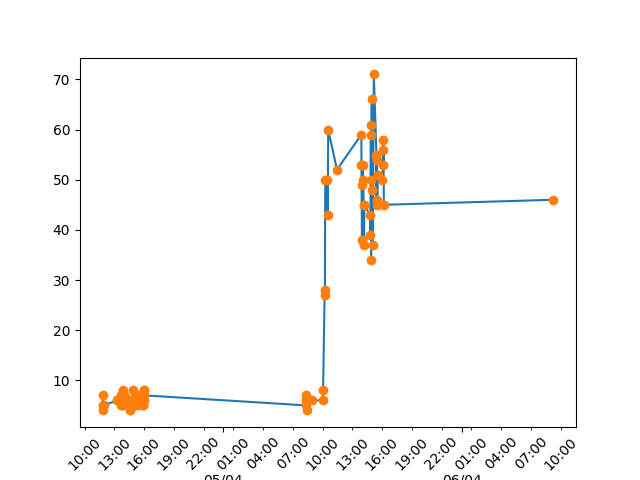
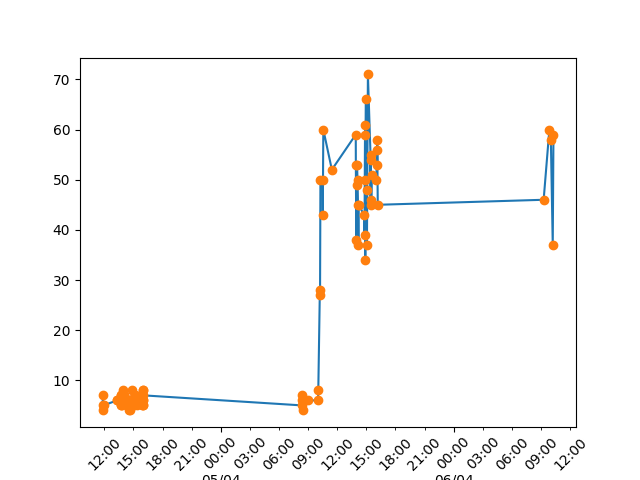
changed list api to scan 9 sensors per shelf

Changed region(s): [[0.2812, 0.125, 0.875, 0.875], [0.0938, 0.9062, 0.9062, 1.0]]

diff --git a/Python/WebPage/API.py b/Python/WebPage/API.py
@@ -44,8 +44,9 @@ def startfunction():
                 measureUS.MeasureDistancePR(singleshelf, XYGridList)
                 a = []
                 for b in XYGridList:
-                    b.PRCovered = stockpercentages.CalculateConfidence(singleshelf.height, b.USdistance, b.PRCovered)
-                    a.append(b.PRCovered)
+                    if b.shelflocation == singleshelf.location:
+                        c = stockpercentages.CalculateConfidence(singleshelf.height, b.USdistance, b.PRCovered)
+                        a.append(c)
                 print("value of a is", a)
                 if -1 in a:
                     singleshelf.confidenceLevel = -1

diff --git a/Python/Objects/product.py b/Python/Objects/product.py
@@ -13,7 +13,7 @@ class Product (object):
 def makeProductGrid():     
     MadeList = []
     MadeList.append(Product("Quaker Oats", "5000108810988", 21.0, 13.0, 8.0, 0.293))
-    MadeList.append(Product("Pancake Mix", "0000003265314", 21.0, 13.0, 8.0, 0.293))
+    MadeList.append(Product("Pancake Mix", "5449000958938", 21.0, 13.0, 8.0, 0.293))
     MadeList.append(Product("Cat Food", "8410136002885", 21.0, 13.0, 8.0, 0.293))
     MadeList.append(Product("Water 500ml", "5060108450324", 21.0, 13.0, 8.0, 0.293))
     MadeList.append(Product("Caviar", "5701263907864", 21.0, 13.0, 8.0, 0.293))

diff --git a/Python/Objects/shelf.py b/Python/Objects/shelf.py
@@ -17,7 +17,7 @@ def makeShelfGrid():
     MadeList = []
 
     MadeList.append(Shelf("1L4B", 22.54, 50.0, 20.0, "5000108810988"))
-    MadeList.append(Shelf("2R6A", 22.54, 50.0, 20.0, "0000003265314"))
+    MadeList.append(Shelf("2R6A", 22.54, 50.0, 20.0, "5449000958938"))
     MadeList.append(Shelf("3L5A", 22.54, 50.0, 20.0, "8410136002885"))
     MadeList.append(Shelf("4L1B", 22.54, 50.0, 20.0, "5060108450324"))
     MadeList.append(Shelf("4R4B", 22.54, 50.0, 20.0, "5701263907864"))
